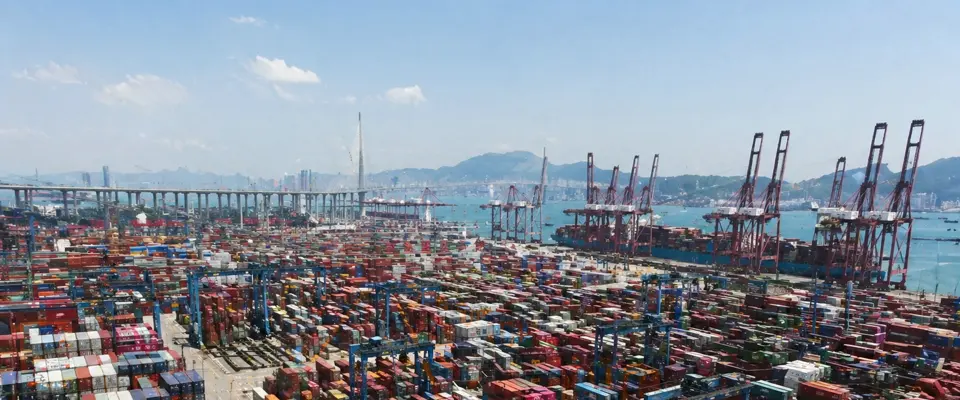
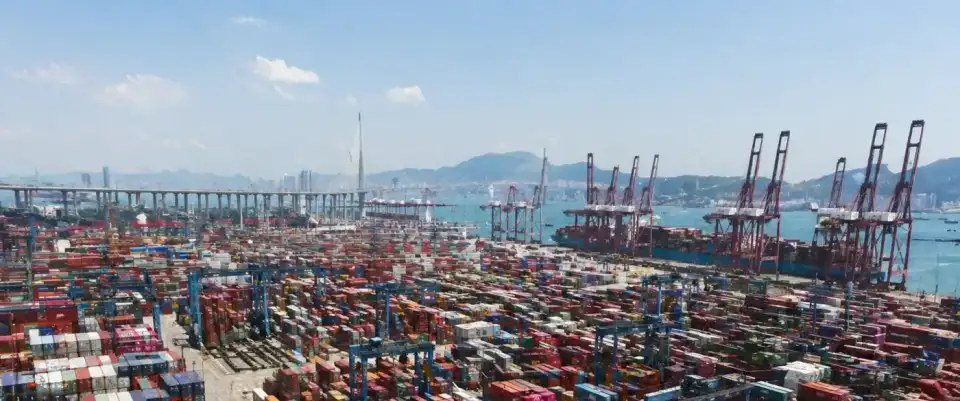
perf: smaller hero srcset, lazy video poster, long cache for static assets

diff --git a/src/components/VideoSection.tsx b/src/components/VideoSection.tsx
@@ -149,7 +149,6 @@ export default function VideoSection({ locale }: VideoSectionProps) {
               ref={videoRef}
               src={isPlaying ? activeVideoData.videoSrc : undefined}
               preload="none"
-              poster={activeVideoData.poster}
               title={activeVideo === 'factory' ? 'TradeGo Fasteners factory tour - ISO 9001 certified fastener production facility in China serving African markets' : activeVideo === 'product' ? 'TradeGo fastener product showcase - drywall screws, self-drilling screws, hex bolts, IBR nails for construction applications' : 'TradeGo customer testimonials - construction companies from South Africa, Zimbabwe, Kenya share their experience'}
               aria-label={activeVideo === 'factory' ? 'Factory tour video showing TradeGo fastener manufacturing and quality control process' : activeVideo === 'product' ? 'Product showcase video demonstrating TradeGo fastener product range and applications' : 'Customer testimonial video featuring African construction professionals'}
               className="w-full h-full object-cover cursor-pointer"
@@ -165,6 +164,16 @@ export default function VideoSection({ locale }: VideoSectionProps) {
                 className="absolute inset-0 flex items-center justify-center bg-black/30 cursor-pointer hover:bg-black/40 transition-colors"
                 onClick={handlePlay}
               >
+                {/* 封面图懒加载：不进首屏关键路径 */}
+                <img
+                  src={activeVideoData.poster}
+                  alt=""
+                  aria-hidden="true"
+                  loading="lazy"
+                  decoding="async"
+                  fetchPriority="low"
+                  className="absolute inset-0 w-full h-full object-cover -z-10"
+                />
                 <div className="text-center">
                   <button className="w-20 h-20 bg-white/90 hover:bg-white rounded-full flex items-center justify-center shadow-xl transition-all hover:scale-105 mb-4">
                     <svg className="w-8 h-8 text-primary-600 ml-1" fill="currentColor" viewBox="0 0 24 24">

diff --git a/next.config.ts b/next.config.ts
@@ -113,6 +113,23 @@ const nextConfig: NextConfig = {
       ]),
     ];
   },
+  // 静态资源长缓存：优化衍生图与字体内容不变，可 immutable
+  async headers() {
+    return [
+      {
+        source: '/images/opt/:path*',
+        headers: [{ key: 'Cache-Control', value: 'public, max-age=31536000, immutable' }],
+      },
+      {
+        source: '/fonts/:path*',
+        headers: [{ key: 'Cache-Control', value: 'public, max-age=31536000, immutable' }],
+      },
+      {
+        source: '/images/:path*',
+        headers: [{ key: 'Cache-Control', value: 'public, max-age=604800, stale-while-revalidate=2592000' }],
+      },
+    ];
+  },
   images: {
     // 2026-07-15 fix: Vercel Next.js image optimization 走 Pro plan (402 Payment Required)
     // 禁掉优化器, 所有 <Image> 自动用原始 /images/...jpg 路径, 跟 5 美元 VPS 哲学一致

diff --git a/src/components/HeroSection.tsx b/src/components/HeroSection.tsx
@@ -18,7 +18,7 @@ export default function HeroSection({ locale = 'en' }: HeroSectionProps) {
       <div className="absolute inset-0 z-0">
         <img
           src="/images/hero-construction.webp"
-          srcSet="/images/hero-construction-960.webp 960w, /images/hero-construction.webp 1920w"
+          srcSet="/images/hero-construction-480.webp 480w, /images/hero-construction-640.webp 640w, /images/hero-construction-960.webp 960w, /images/hero-construction.webp 1400w"
           sizes="100vw"
           alt="Construction site with fastener application"
           fetchPriority="high"
